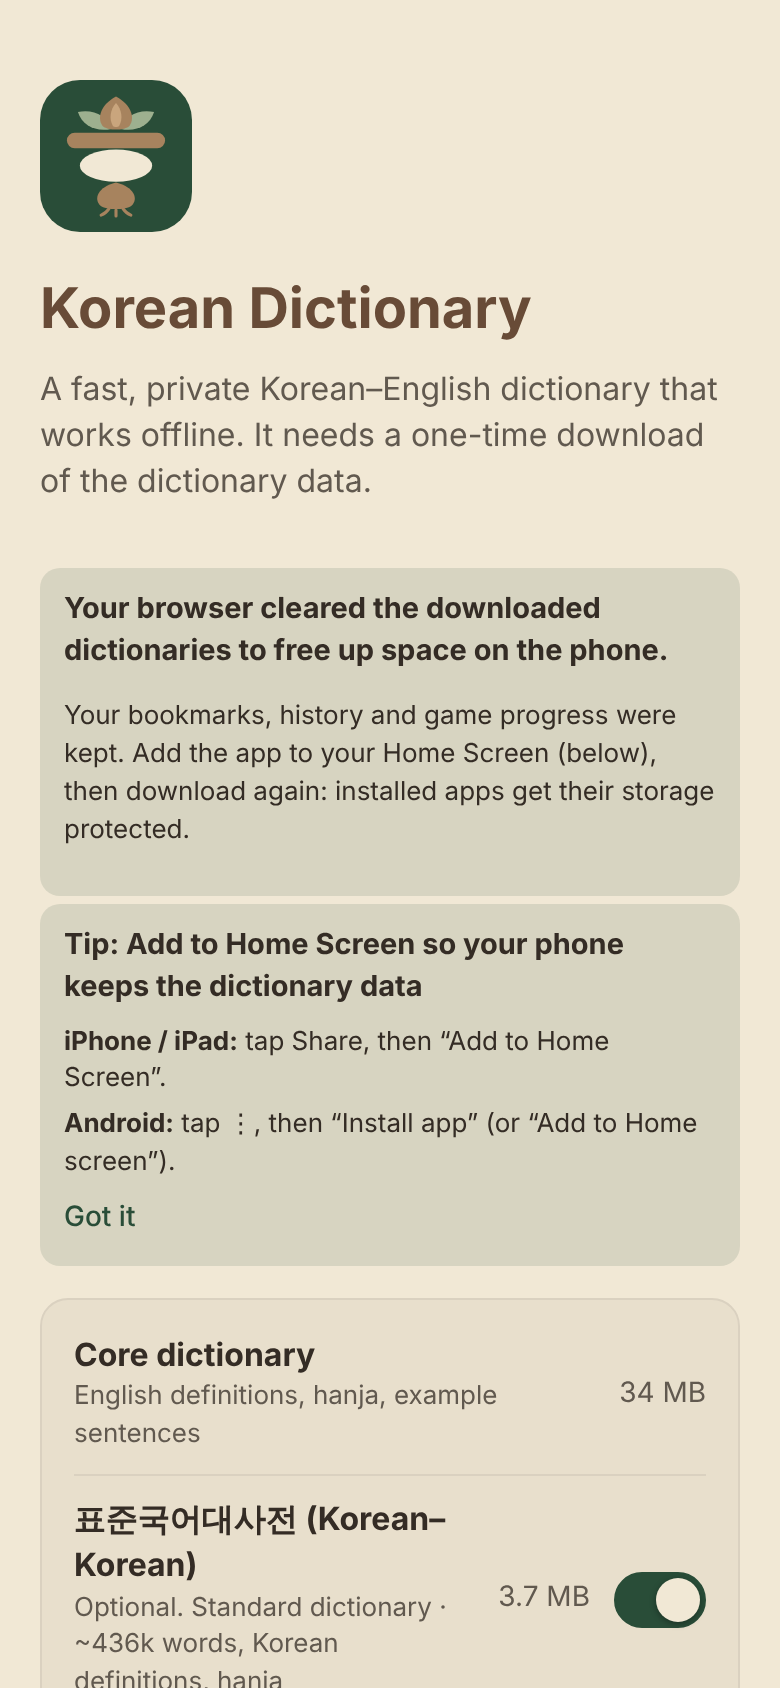
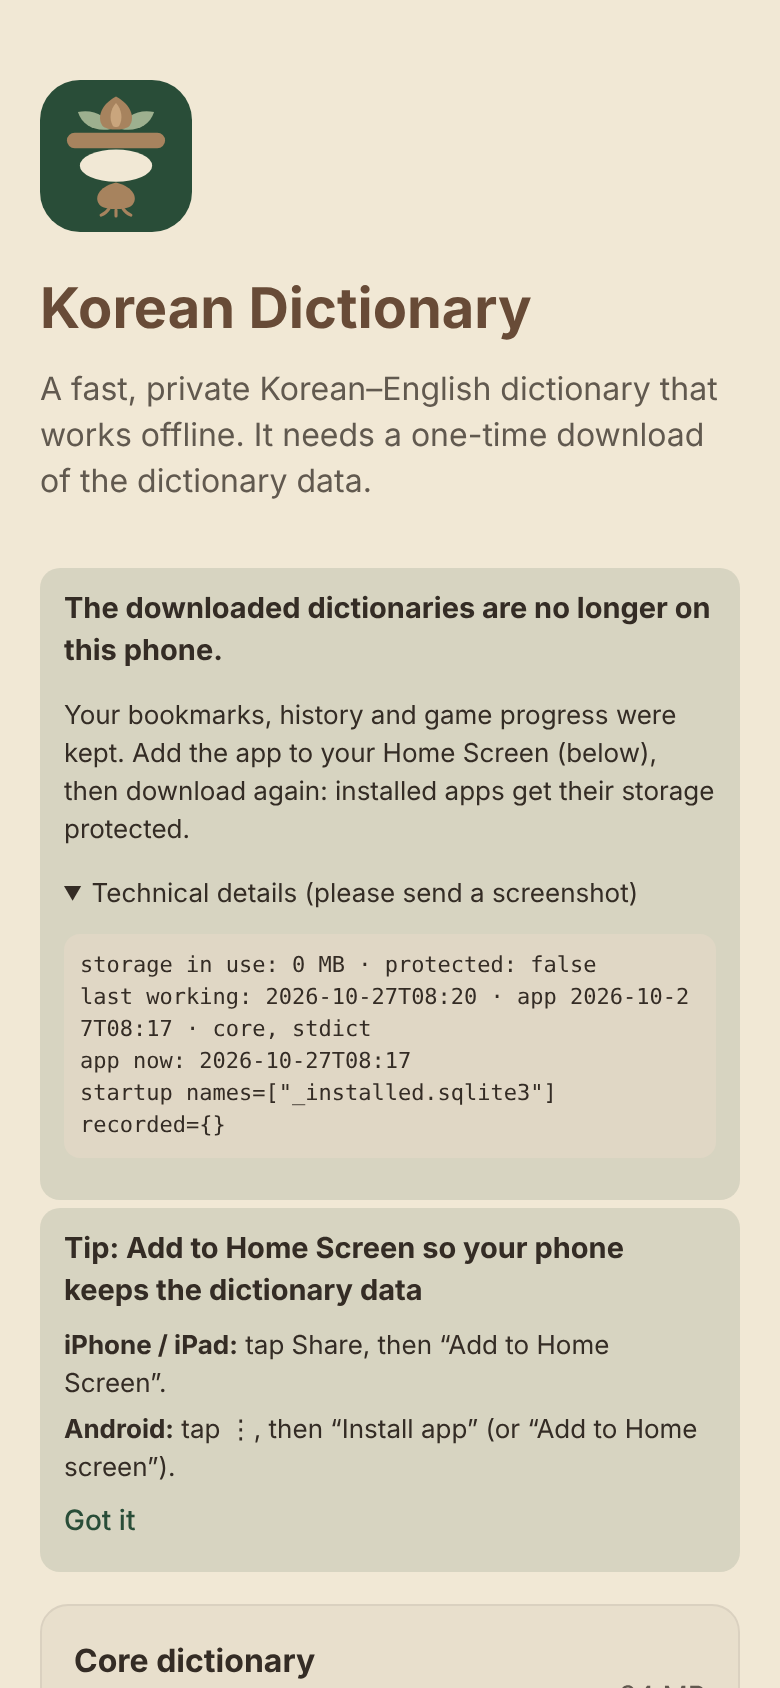
Missing dictionaries: show whether the files are still on the phone, offer Try again, add diagnostics
The 'browser cleared' message also appeared with storage protection on, so it was not the
whole story. When the dictionaries this device had are missing, the first-run screen now
reports storage in use, protection state, when they last worked, the app build and the
engine's startup log; if the space is still in use it says the files could not be opened
and offers Try again (fresh storage worker) before any re-download.

Claude-Session: https://claude.ai/code/session_01KdPaeje8PEPnx6eSEhkmxd

diff --git a/app/src/views/FirstRun.tsx b/app/src/views/FirstRun.tsx
@@ -1,7 +1,7 @@
 import { useEffect, useState } from 'preact/hooks';
 import { dismissHint, hintDismissed, isStandalone, needsHomeScreenHint, persisted$, requestPersist } from '../lib/persist';
 import { bytesNeeded, fmtMB } from '../lib/storage';
-import { cachedManifest, fetchManifest, refreshStatus, storageCleared$ } from '../db/client';
+import { cachedManifest, fetchManifest, refreshStatus, restartWorker, storageCleared$, storageReport$ } from '../db/client';
 import { fmtBytes } from '../lib/app-state';
 import { PackInstaller } from '../components/PackInstaller';
 import { optionalPacks, packDesc, packEnabled, packLabel } from '../lib/packs';
@@ -18,6 +18,9 @@ export function FirstRun() {
   const persisted = useStore(persisted$);
   const [dismissed, setDismissed] = useState(hintDismissed());
   const cleared = useStore(storageCleared$);
+  const report = useStore(storageReport$);
+  // a full dictionary download uses well over 30 MB; if that much is still in use, the files are there
+  const stillThere = !!report && (report.usageMB ?? 0) > 30;
   useEffect(() => { void requestPersist(); }, []);
   useEffect(() => {
     fetchManifest().then((m) => { setManifest(m); setErr(undefined); }, (e) => setErr(String(e?.message ?? e)));
@@ -39,8 +42,24 @@ export function FirstRun() {
       <p class="lead">A fast, private Korean–English dictionary that works offline. It needs a one-time download of the dictionary data.</p>
       {cleared && (
         <div class="notice" role="alert">
-          <strong>Your browser cleared the downloaded dictionaries to free up space on the phone.</strong>
-          <p class="small">Your bookmarks, history and game progress were kept. {persisted ? 'Storage protection is now on, so after this download the browser will keep the data.' : 'Add the app to your Home Screen (below), then download again: installed apps get their storage protected.'}</p>
+          {stillThere ? (
+            <>
+              <strong>The app could not open the dictionaries saved on this phone.</strong>
+              <p class="small">They still take up {report!.usageMB} MB, so they were not deleted. Try again first; download again only if that does not help.</p>
+              <button type="button" class="btn" onClick={() => { restartWorker(); refreshStatus().catch(() => undefined); }}>Try again</button>
+            </>
+          ) : (
+            <>
+              <strong>The downloaded dictionaries are no longer on this phone.</strong>
+              <p class="small">Your bookmarks, history and game progress were kept. {persisted ? 'Storage protection is on.' : 'Add the app to your Home Screen (below), then download again: installed apps get their storage protected.'}</p>
+            </>
+          )}
+          {report && (
+            <details class="small diag">
+              <summary>Technical details (please send a screenshot)</summary>
+              <pre>{`storage in use: ${report.usageMB ?? '?'} MB · protected: ${report.persisted}\nlast working: ${report.lastOk ?? 'unknown'}\napp now: ${report.build}\n${report.diag}`}</pre>
+            </details>
+          )}
         </div>
       )}
       {needsHomeScreenHint(persisted, isStandalone(), dismissed) && (

diff --git a/app/src/db/client.ts b/app/src/db/client.ts
@@ -84,12 +84,31 @@ export const packsHint = (): string[] => { try { return JSON.parse(localStorage.
 /** True when the dictionaries this device had are gone without the user deleting them: the
  *  browser cleared the site's storage to free space (it keeps localStorage, so we can tell). */
 export const storageCleared$ = createStore(false);
+/** What the device looked like when the dictionaries went missing, to tell "the browser deleted
+ *  the files" (little storage in use) from "the app could not open files still on the device". */
+export interface StorageReport { usageMB: number | null; persisted: boolean | null; lastOk: string | null; build: string; diag: string }
+export const storageReport$ = createStore<StorageReport | null>(null);
+const LAST_OK = 'kd.lastOk';
+async function makeReport(): Promise<StorageReport> {
+  const est = await navigator.storage?.estimate?.().catch(() => undefined);
+  const persisted = await navigator.storage?.persisted?.().catch(() => null) ?? null;
+  const diag = await call<string>('diagnostics').catch((e) => String(e?.message ?? e));
+  let lastOk: string | null = null;
+  try { lastOk = localStorage.getItem(LAST_OK); } catch { /* */ }
+  return { usageMB: est?.usage != null ? Math.round(est.usage / 1048576) : null, persisted, lastOk, build: __BUILD__, diag };
+}
 const saveHint = (s: PackStatus) => { try { localStorage.setItem(PACKS_HINT, JSON.stringify(Object.keys(s.packs).filter((k) => s.packs[k].installed))); } catch { /* ignore */ } };
 export async function refreshStatus(): Promise<PackStatus> {
   const s = await call<PackStatus>('packStatus');
   try { performance.mark('kd-engine-ready'); } catch { /* ignore */ }
-  if (!s.error && packsHint().includes('core') && !s.packs.core?.installed) storageCleared$.set(true);
-  if (s.packs.core?.installed) storageCleared$.set(false);
+  if (!s.error && packsHint().includes('core') && !s.packs.core?.installed) {
+    storageCleared$.set(true);
+    void makeReport().then((r) => storageReport$.set(r));
+  }
+  if (s.packs.core?.installed) {
+    storageCleared$.set(false);
+    try { localStorage.setItem(LAST_OK, `${new Date().toISOString().slice(0, 16)} · app ${__BUILD__} · ${Object.keys(s.packs).join(', ')}`); } catch { /* */ }
+  }
   saveHint(s);
   packStatus$.set(s);
   return s;

diff --git a/app/e2e/storage-cleared.spec.ts b/app/e2e/storage-cleared.spec.ts
@@ -27,7 +27,10 @@ test('after the browser clears storage: explain it, keep bookmarks and history',
   }, ls);
   const p2 = await ctx.newPage();
   await p2.goto('/');
-  await expect(p2.getByText(/browser cleared the downloaded dictionaries/)).toBeVisible({ timeout: 60_000 });
+  await expect(p2.getByText(/dictionaries are no longer on this phone/)).toBeVisible({ timeout: 60_000 });
+  await p2.getByText(/Technical details/).click();
+  await expect(p2.locator('.diag pre')).toContainText(/storage in use: \d+ MB/);
+  await expect(p2.locator('.diag pre')).toContainText(/last working: \d{4}-/);
   await expect(p2.getByText(/bookmarks, history and game progress were kept/)).toBeVisible();
   await p2.screenshot({ path: '../docs/screenshots/storage-cleared.png' });
   await downloadAll(p2);

diff --git a/app/src/styles.css b/app/src/styles.css
@@ -627,3 +627,4 @@ mark.hl { background: var(--rd-hl); color: inherit; border-radius: 4px; box-shad
 .gm-missed { list-style: none; margin: 0; padding: 0; display: grid; gap: 2px; }
 .gm-missed a { display: block; padding: 10px 4px; border-bottom: 1px solid var(--border); }
 .firstrun .notice { margin-inline: 0; }
+.diag { margin-top: 10px; } .diag pre { white-space: pre-wrap; word-break: break-all; font-size: 11px; max-height: 40vh; overflow: auto; background: var(--surface-2); padding: 8px; border-radius: 8px; }

diff --git a/app/vite.config.ts b/app/vite.config.ts
@@ -6,6 +6,7 @@ const base = process.env.BASE_PATH ?? '/Korean-Dictionary/';
 
 export default defineConfig({
   base,
+  define: { __BUILD__: JSON.stringify(new Date().toISOString().slice(0, 16)) },   // shown in storage diagnostics
   plugins: [
     preact(),
     VitePWA({

diff --git a/app/src/build.d.ts b/app/src/build.d.ts
@@ -1,0 +1,2 @@
+/** Build time of the app (UTC, minutes), set by vite.config.ts. */
+declare const __BUILD__: string;
